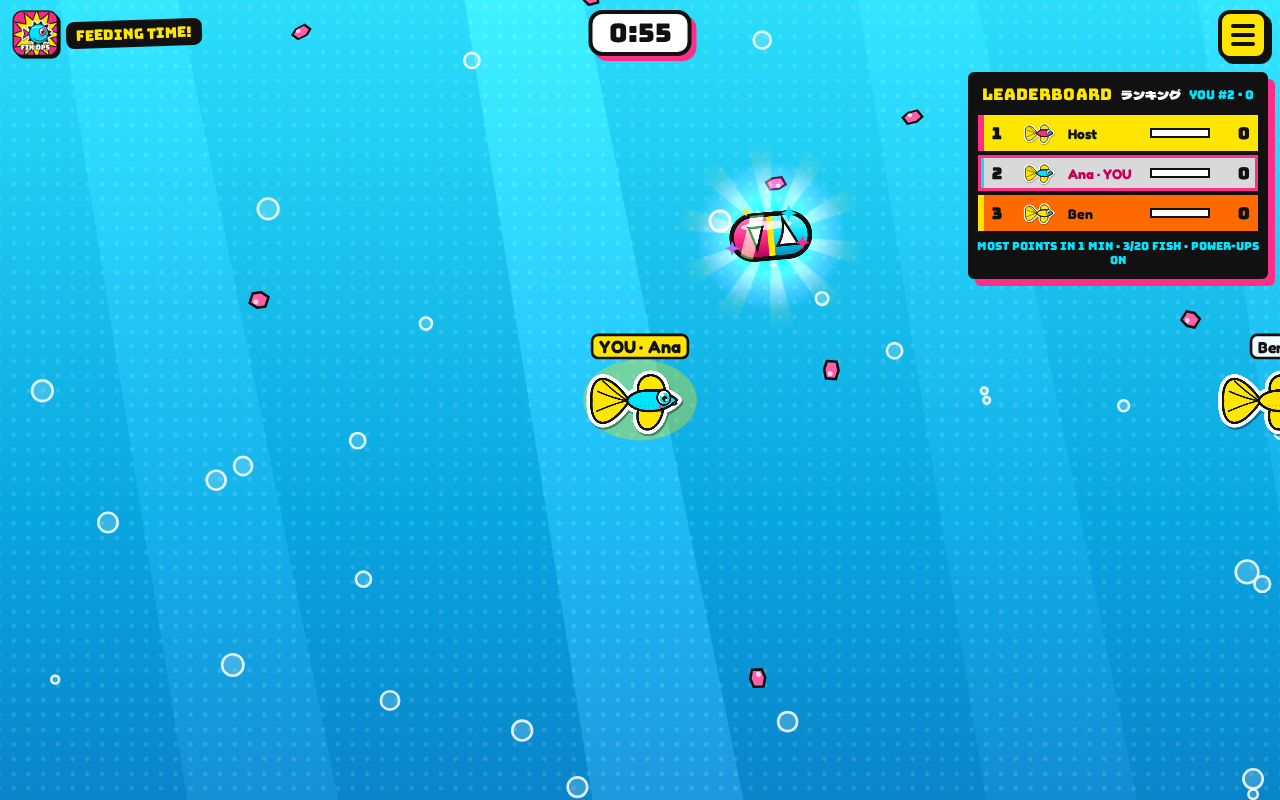
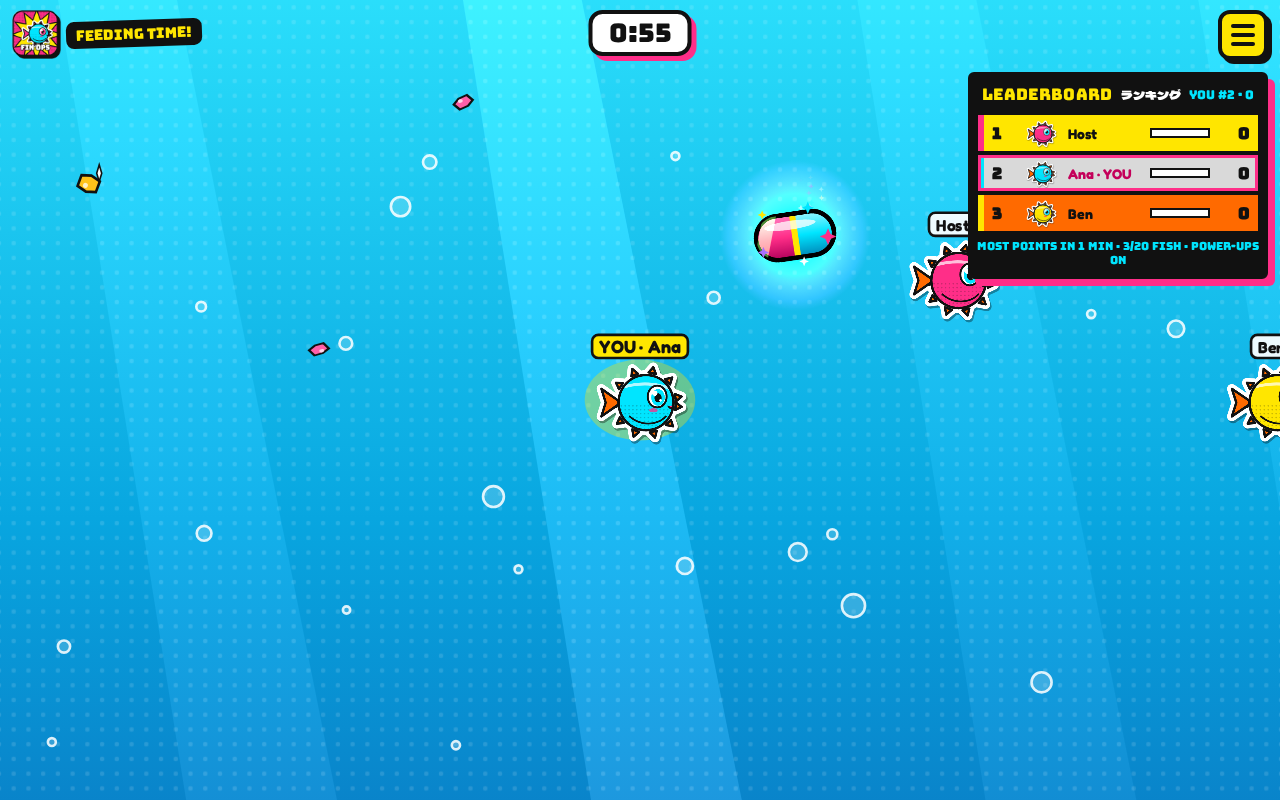
Fin Ops: remove white triangles from the pill (fin/tooth emblems, light rays); high-contrast off-screen pill arrow

diff --git a/games/finops/app.js b/games/finops/app.js
@@ -1047,7 +1047,7 @@ function drawShark(w, h, ds, t, fv, hex) {
   ctx.lineWidth = lw * 1.3; ctx.beginPath(); ctx.moveTo(ex - er * 1.6, ey - er * 1.7); ctx.lineTo(ex + er * 1.5, ey - er * 0.6); ctx.stroke();
   ctx.lineWidth = lw;
 }
-// MAGIC SHARK PILL: cached glossy capsule with a shark-fin emblem, rotating rays, pulsing halo,
+// MAGIC SHARK PILL: cached glossy capsule (no emblems or rays), pulsing halo,
 // holographic shimmer sweep, orbiting sparkles and a glitter trail. Sprites are built once.
 const PILL_SPR = {};
 function pillSprites() {
@@ -1064,20 +1064,12 @@ function pillSprites() {
   g.fillStyle = '#FFE600'; g.fillRect(-2, -r, 4, 2 * r); // gold band
   g.fillStyle = 'rgba(255,255,255,.75)'; g.beginPath(); g.ellipse(-L * 0.1, -r * 0.5, L * 0.75, r * 0.2, 0, 0, 7); g.fill();
   g.restore();
-  // shark-fin emblem on the cyan half
-  g.fillStyle = '#fff'; g.strokeStyle = '#111'; g.lineWidth = 1.6; g.beginPath(); g.moveTo(L * 0.18, r * 0.45); g.quadraticCurveTo(L * 0.42, -r * 0.1, L * 0.38, -r * 0.75); g.quadraticCurveTo(L * 0.62, -r * 0.05, L * 0.78, r * 0.45); g.closePath(); g.fill(); g.stroke();
-  // tooth on the pink half
-  g.fillStyle = '#fff'; g.beginPath(); g.moveTo(-L * 0.62, -r * 0.45); g.lineTo(-L * 0.22, -r * 0.45); g.lineTo(-L * 0.42, r * 0.55); g.closePath(); g.fill(); g.stroke();
   g.lineWidth = 3; body(g); g.stroke();
-  // rays
-  const R2 = 90, rays = mk(R2 * 2, R2 * 2), q = rays.getContext('2d'); q.translate(R2, R2);
-  const rg = q.createRadialGradient(0, 0, 4, 0, 0, R2); rg.addColorStop(0, 'rgba(255,240,140,.85)'); rg.addColorStop(1, 'rgba(255,240,140,0)');
-  q.fillStyle = rg; for (let i = 0; i < 10; i++) { const a = i * Math.PI / 5; q.beginPath(); q.moveTo(0, 0); q.arc(0, 0, R2, a - 0.13, a + 0.13); q.closePath(); q.fill(); }
   // halo
   const R3 = 64, halo = mk(R3 * 2, R3 * 2), hq = halo.getContext('2d'), hg = hq.createRadialGradient(R3, R3, 4, R3, R3, R3);
   hg.addColorStop(0, 'rgba(255,255,255,.95)'); hg.addColorStop(0.25, 'rgba(0,229,255,.6)'); hg.addColorStop(0.6, 'rgba(169,112,255,.35)'); hg.addColorStop(1, 'rgba(255,46,136,0)');
   hq.fillStyle = hg; hq.fillRect(0, 0, R3 * 2, R3 * 2);
-  Object.assign(PILL_SPR, { cap, cw: W / S, ch: Hh / S, rays, R2, halo, R3, r, L, body });
+  Object.assign(PILL_SPR, { cap, cw: W / S, ch: Hh / S, halo, R3, r, L, body });
   return PILL_SPR;
 }
 const SPARK_COLS = ['#FFE600', '#00E5FF', '#FF2E88', '#fff', '#A970FF'];
@@ -1094,7 +1086,7 @@ function drawPill(x, y, t, alpha, scale, full) {
   ctx.save(); ctx.translate(x, y); ctx.globalAlpha = alpha;
   if (full) {
     const pulse = REDUCED ? 1 : 1 + 0.12 * Math.sin(t / 150);
-    ctx.save(); ctx.rotate(REDUCED ? 0 : t / 1400); ctx.globalAlpha = alpha * 0.7; ctx.drawImage(P.rays, -P.R2, -P.R2); ctx.restore();
+    
     ctx.save(); ctx.globalCompositeOperation = 'lighter'; const hs = P.R3 * pulse; ctx.drawImage(P.halo, -hs, -hs, hs * 2, hs * 2); ctx.restore();
   }
   ctx.rotate(REDUCED ? -0.35 : Math.sin(t / 420) * 0.35 - 0.3); ctx.scale(scale * 1.45, scale * 1.45);
@@ -1123,14 +1115,14 @@ function drawBursts(t) {
 }
 // off-screen pointer to the pill, drawn in screen space
 function drawPillArrow(pill, t) {
-  const sx = (pill.x - cam.x) * cam.z + VW / 2, sy = (pill.y - cam.y) * cam.z + VH / 2, m = 46;
+  const sx = (pill.x - cam.x) * cam.z + VW / 2, sy = (pill.y - cam.y) * cam.z + VH / 2, m = 66;
   if (sx > 0 && sx < VW && sy > 0 && sy < VH) return;
   const cx = VW / 2, cy = VH / 2, dx = sx - cx, dy = sy - cy, sc = Math.min((VW / 2 - m) / Math.abs(dx || 1e-6), (VH / 2 - m) / Math.abs(dy || 1e-6));
   const ax = cx + dx * sc, ay = cy + dy * sc, ang = Math.atan2(dy, dx), pul = REDUCED ? 1 : 1 + 0.12 * Math.sin(t / 120);
   ctx.save(); ctx.translate(ax, ay); ctx.scale(pul, pul);
-  ctx.fillStyle = 'rgba(255,230,0,.35)'; ctx.beginPath(); ctx.arc(0, 0, 30, 0, 7); ctx.fill();
-  ctx.save(); ctx.rotate(ang); ctx.fillStyle = '#FFE600'; ctx.strokeStyle = '#111'; ctx.lineWidth = 3;
-  ctx.beginPath(); ctx.moveTo(36, 0); ctx.lineTo(18, -13); ctx.lineTo(18, 13); ctx.closePath(); ctx.fill(); ctx.stroke(); ctx.restore();
+  ctx.fillStyle = 'rgba(17,17,40,.8)'; ctx.strokeStyle = '#00E5FF'; ctx.lineWidth = 3; ctx.beginPath(); ctx.arc(0, 0, 28, 0, 7); ctx.fill(); ctx.stroke();
+  ctx.save(); ctx.rotate(ang); ctx.lineJoin = 'round'; ctx.beginPath(); ctx.moveTo(48, 0); ctx.lineTo(24, -17); ctx.lineTo(24, 17); ctx.closePath();
+  ctx.strokeStyle = '#111'; ctx.lineWidth = 7; ctx.stroke(); ctx.fillStyle = '#FF2E88'; ctx.fill(); ctx.strokeStyle = '#00E5FF'; ctx.lineWidth = 2.5; ctx.stroke(); ctx.restore();
   const P = pillSprites(); ctx.rotate(-0.3); ctx.drawImage(P.cap, -P.cw * 0.6, -P.ch * 0.6, P.cw * 1.2, P.ch * 1.2);
   ctx.restore();
 }
